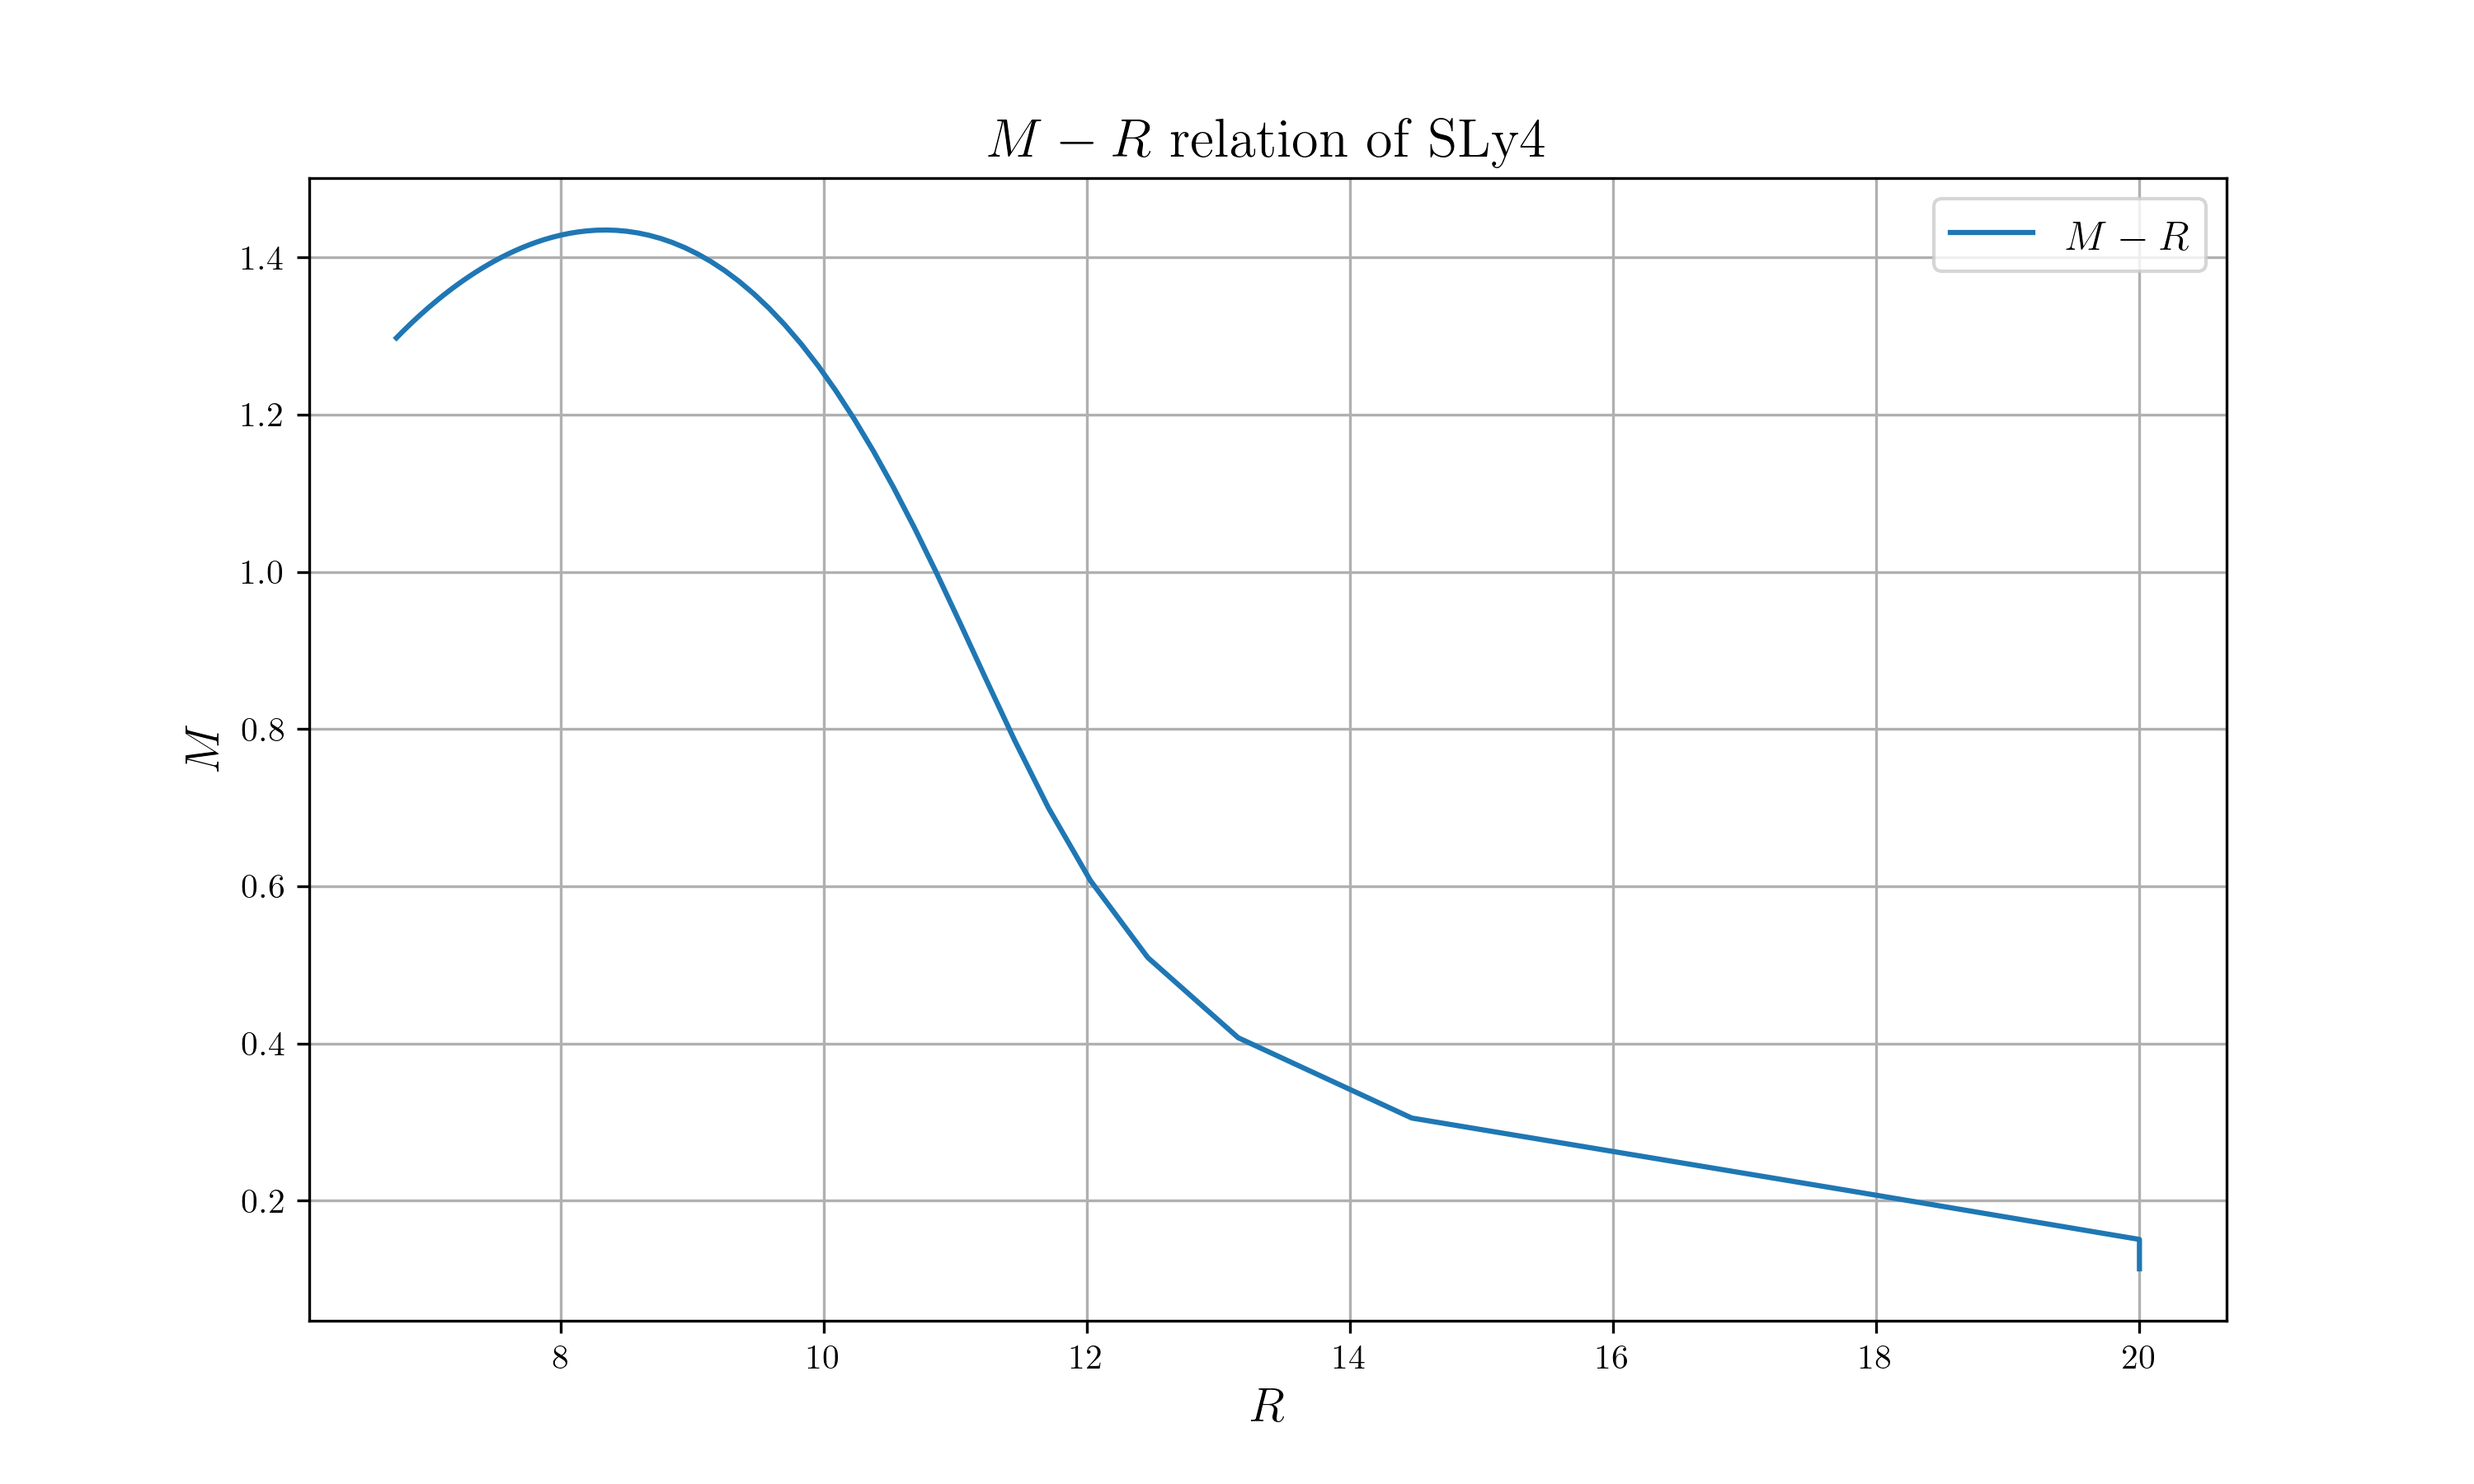
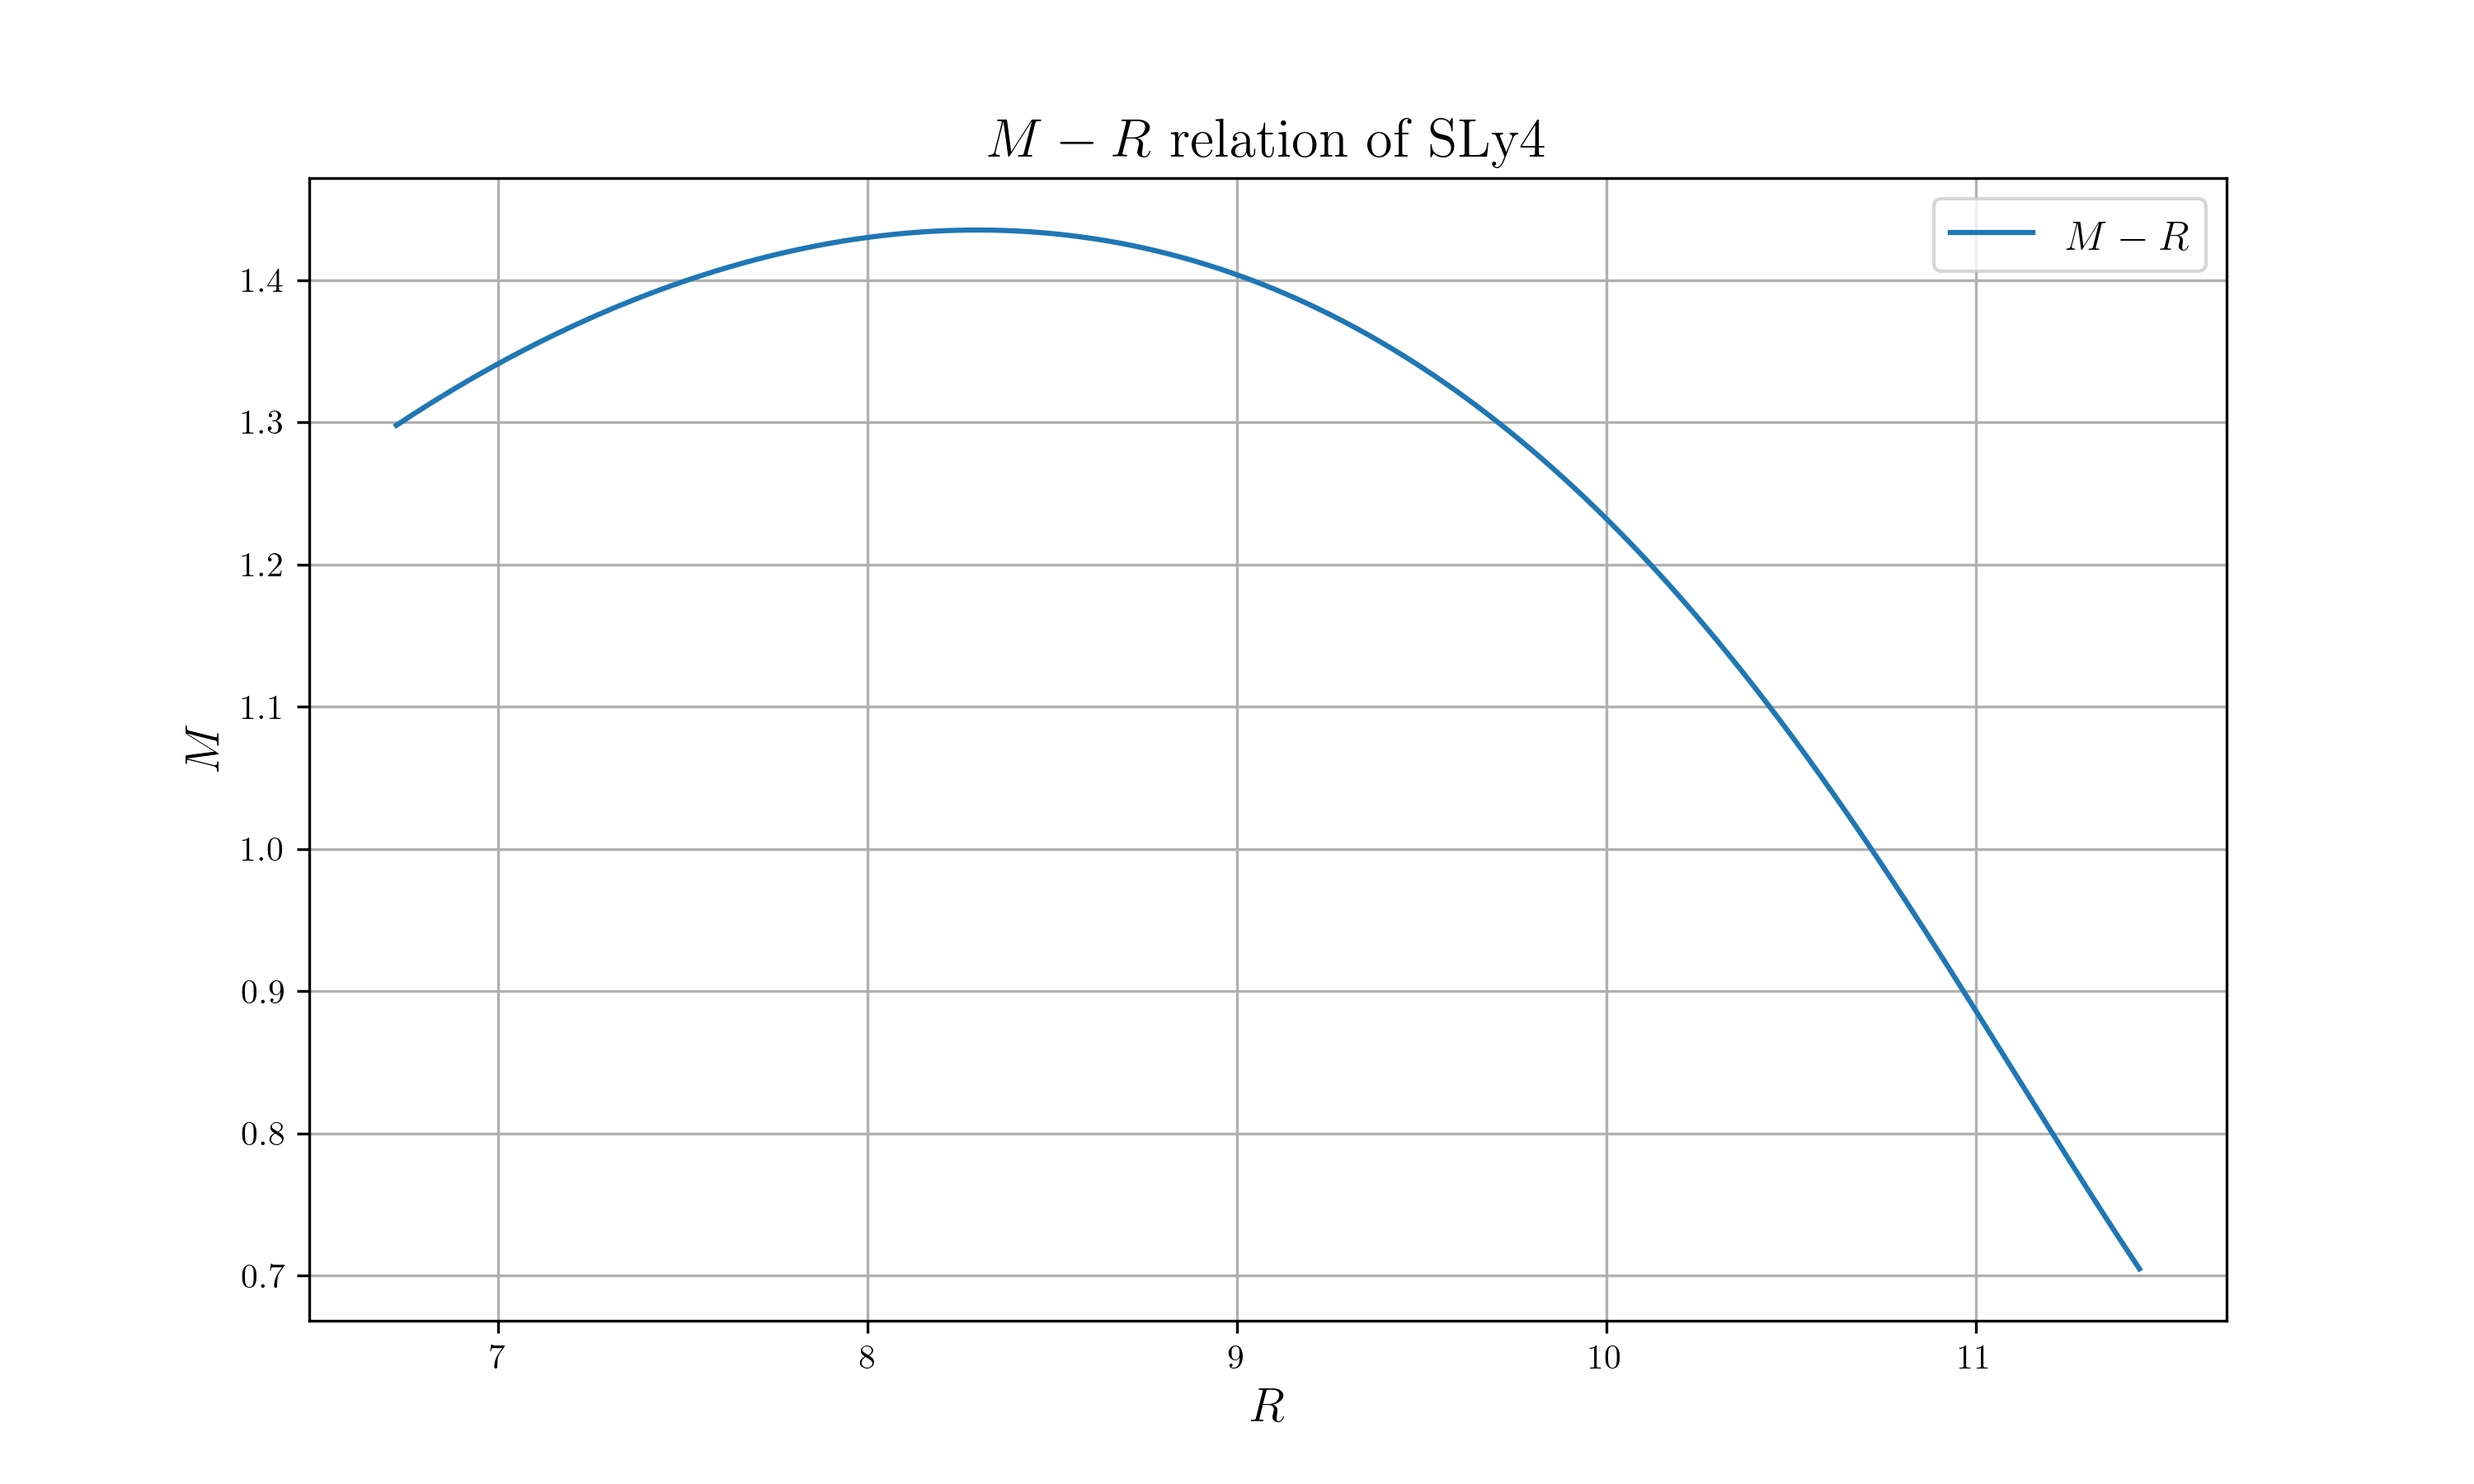
SLy4 2

diff --git a/src/bin/sly4_mr.rs b/src/bin/sly4_mr.rs
@@ -56,7 +56,7 @@ fn main() {
 
     let results = (0..SIZE).into_par_iter().map(|idx| {
         // Set Initial Conditions
-        let rho_c = convert(6.749E+15f64 + (idx as f64) * (1e10 - 1e17) / 1000f64, Density, cgs_to_geom);
+        let rho_c = convert(6.749E+15f64 + (idx as f64) * (1e11 - 6e15) / 1000f64, Density, cgs_to_geom);
         let r_step = convert(10_000_00f64, Length, cgs_to_geom);
         let m_c = 0f64;
         let init_state = State::<f64>::new(0f64, vec![m_c, rho_c], vec![0f64; 2]);
@@ -162,5 +162,5 @@ pub fn tov_piecewise_polytrope(st: &mut State<f64>) {
 
 pub fn stop_by_p(st: &ExplicitODE) -> bool {
     let rho = st.get_state().value[1];
-    K0 * rho.powf(GAMMA0) < 1e-11
+    K0 * rho.powf(GAMMA0) < 1e-10
 }
